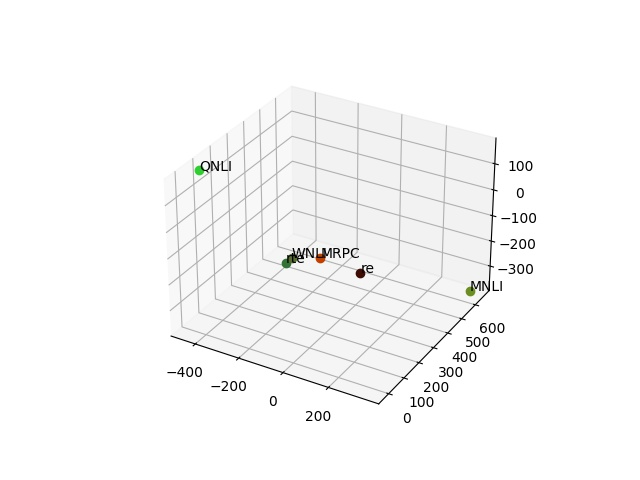
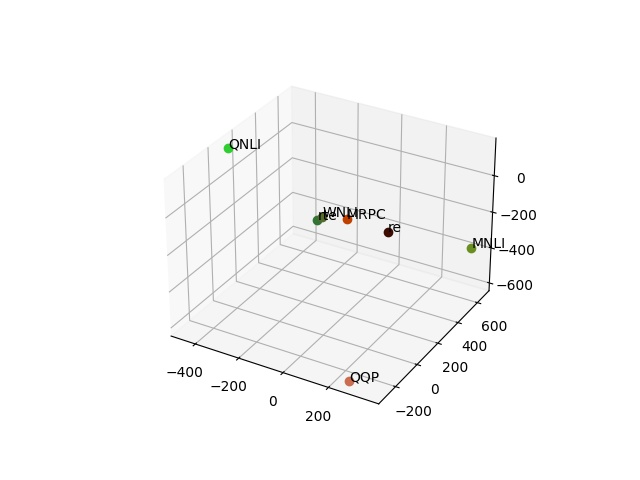
update

diff --git a/draw_cuda_taskprompt.py b/draw_cuda_taskprompt.py
@@ -499,7 +499,7 @@ blocked_list = []
 #blocked_list = [4,5,6,8]
 
 #NLI, RE
-blocked_list = [0,6,8,9,10,11]
+#blocked_list = [0,8,9,10,11]
 
 
 
@@ -587,9 +587,9 @@ elif dim == 3:
 #plt.legend(loc="upper left")
 #plt.title("Task Prompt Dist")
 #plt.savefig('output.pdf')
-#plt.savefig('output.jpg')
+plt.savefig('output.jpg')
 #plt.savefig('exp_results/SENTIMENT.jpg')
-plt.savefig('exp_results/NLI.jpg')
+#plt.savefig('exp_results/NLI.jpg')
 #plt.savefig('exp_results/domain.jpg')
 #plt.savefig('exp_results/PCA_DOMAIN_BASE_SENTIMENT.jpg')
 
